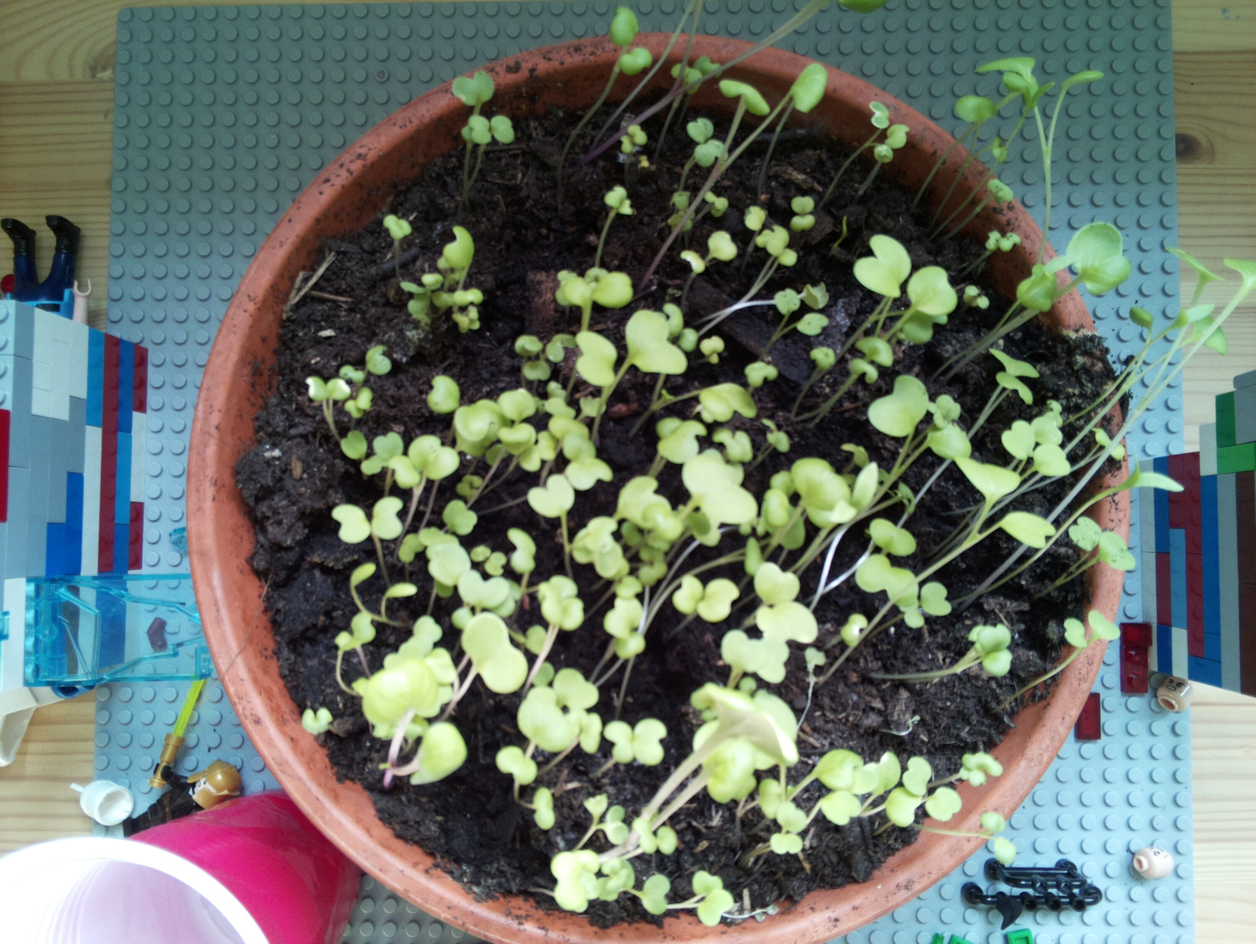
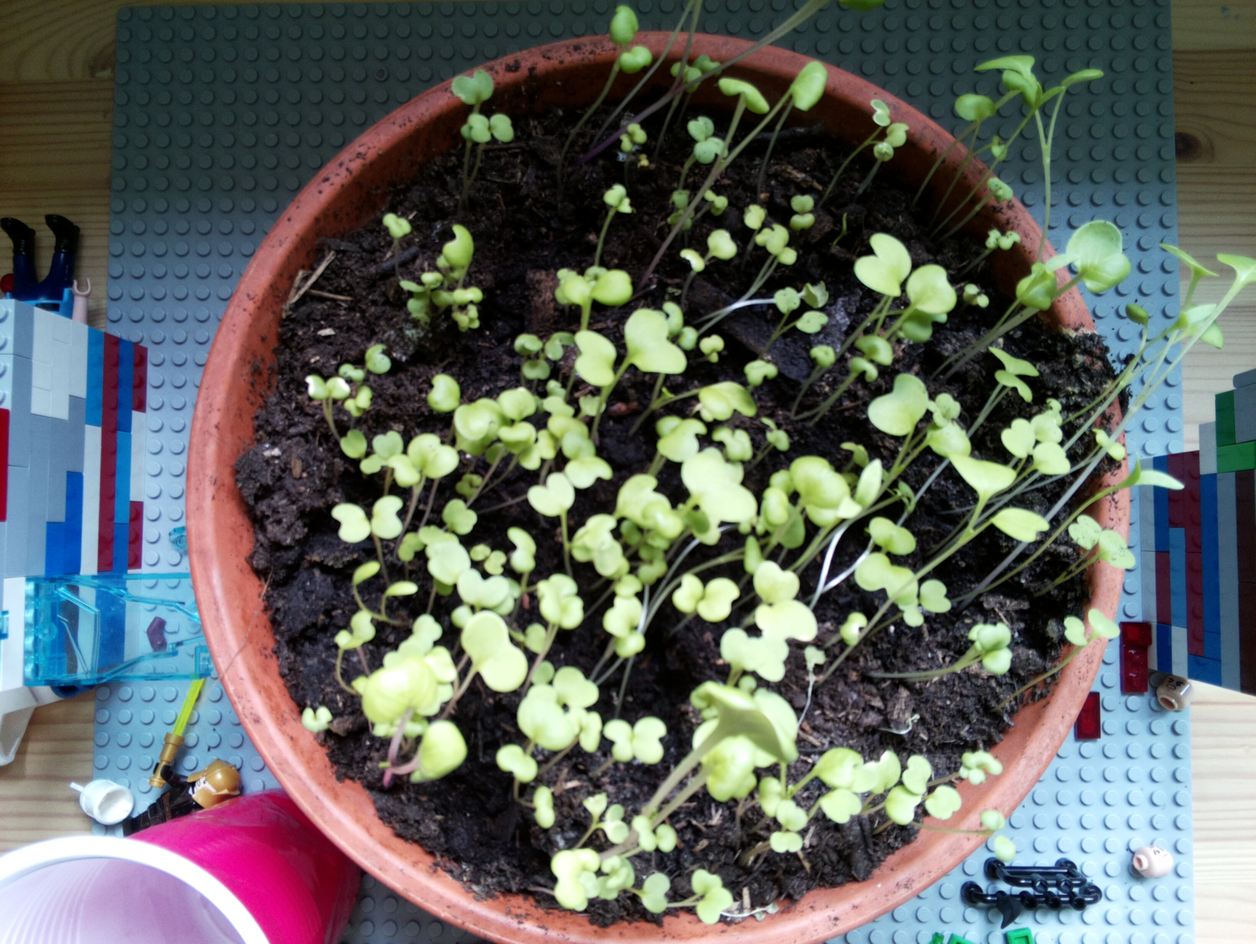
Update images at Thu 27 May 17:21:23 BST 2021

diff --git a/index.html b/index.html
@@ -12,7 +12,7 @@
     <h2>Keith & Jackson's Growlab!</h2>
 	<div>
     <p>Taking part in the #growlab challenge!</p>
-    <p>Last Updated - 2021-05-27_1710</p>            
+    <p>Last Updated - 2021-05-27_1720</p>            
     <img src="image.jpg" class="img-rounded" alt="Latest" width="304" height="236"> 
     	</div>
 <div>
